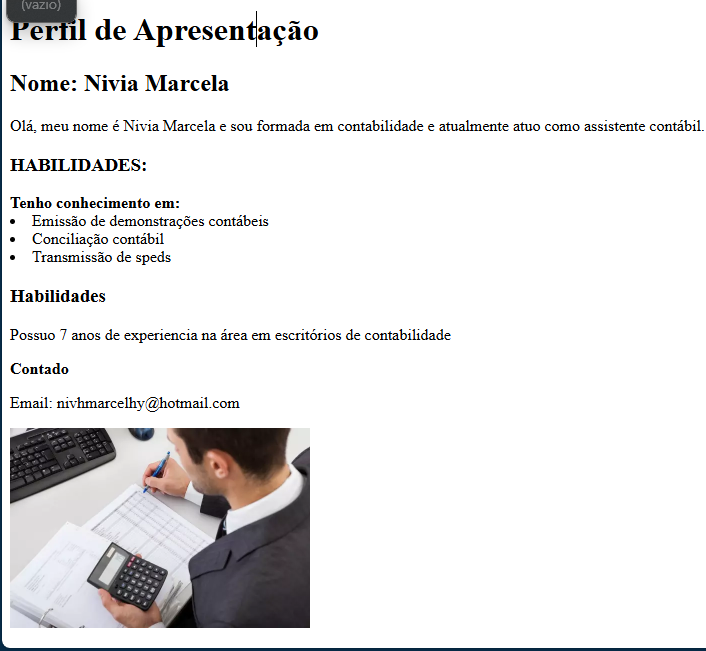
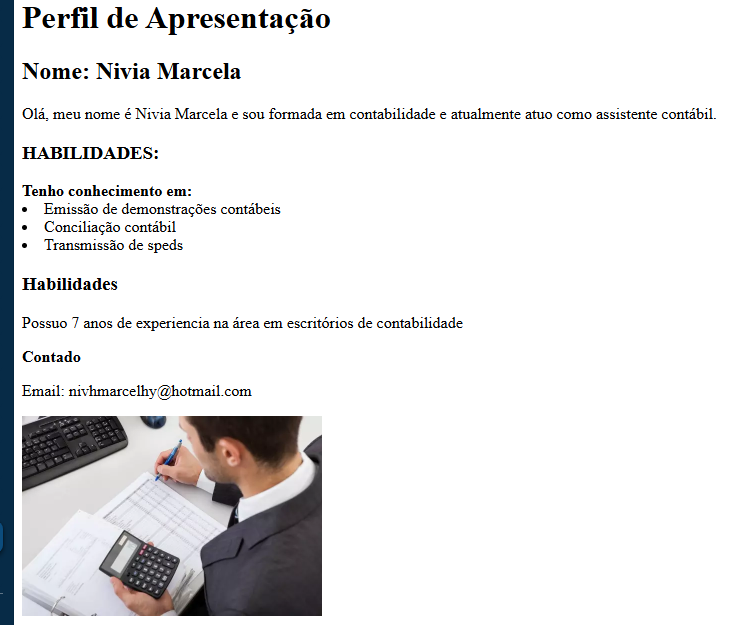
4

Changed region(s): [[0.0, 0.0, 1.0, 1.0]]

diff --git a/index.html b/index.html
@@ -7,14 +7,18 @@
     <link rel="stylesheet" href="lista.css">
 </head>
 <body>
-    <header>Meu Progresso em Let's Code</header>
-     <section>
-        <h2>Projeto HTML</h2>
-        <div class="html"><img src="Captura de tela 2025-04-03 184526" alt="">
+    <header>
+        
+        <h1>Meu Progresso em Let's Code</h1></header>
+
+        <div> 
+            <section>
+                <h2><a href="projetoHtml">Projeto HTML</a></h2>
+                <div class="html"><img src="Captura de tela 2025-04-03 184526.png" alt="">
+                </div>
+             </section>
         </div>
-
-
-     </section>
+   
    
     
 </body>

diff --git a/lista.css b/lista.css
@@ -1,0 +1,21 @@
+img {
+    height: 380px;
+}
+
+.html {
+    width: 50%;
+    font-size: 14px;
+    padding: 10px 0 0 5px;
+    background-color: rgba(212, 241, 241, 0.692);
+    border-radius: 10px 10px 10px 10px  
+    
+}
+
+.html:hover {
+    transform: scale(1.05); /* Aumenta ligeiramente o tamanho */
+    box-shadow: 0 4px 8px rgba(93, 208, 243, 0.897); /* Adiciona uma sombra */
+  }
+
+div {
+    
+}
